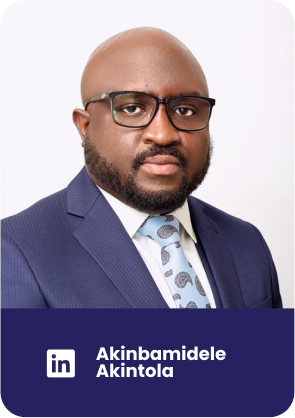
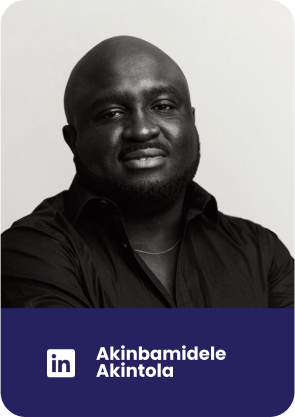
changed akintola imaged and added new team member and changed boards order

diff --git a/routes/web.php b/routes/web.php
@@ -114,8 +114,25 @@ Route::get('who-we-are', function () {
             'content' => "Strategic whiz who turns challenges into seamless collaboration. Expert at driving teamwork and boosting communication with style. A relationship builder who keeps teams sharp and adaptable. Master communicator and inventive problem-solver with a flair for strategic planning. Known for charming execs and partners while delivering stellar results.", 
             'link' => 'https://www.linkedin.com/in/roli-edoja-98607a263/'
         ],
+        
+        [
+            'name' => 'EseOghene Okagbare',
+            'position' => 'Head of Media Operations',
+            'list_image' => '/images/team_8.png', 
+            'image' => '/images/team_detail_8.png', 
+            'content' => "EseOghene brings diverse experience across education, banking, and technology sectors, driving innovative media strategies and brand awareness with his technical knowledge and creative vision. Holding a Bachelor's in Computer Science and multiple tech certifications, Elson has advanced rapidly, showcasing his versatility and leadership. He rose to Head Customer Service Officer in banking before becoming a Senior Software Engineer at Interswitch Nigeria Limited. There, he discovered his passion for media, directing a film and a documentary, and later founded a wedding media company and corporate media enterprise. He has produced commercials, documentaries, and films for diverse clients.", 
+            'link' => 'https://www.linkedin.com/in/roli-edoja-98607a263/'
+        ],
     ];
     $boards = [
+        [
+            'name' => 'Seyi Akinwale', 
+            'list_image' => '/images/ambassador_10.png', 
+            'image' => '/images/detail_10.png', 
+            'content' => "Seyi Akinwale, Senior VP at GE Vernova’s Financial Services, has 18+ years of experience in infrastructure project development in Sub Saharan Africa. Skilled in debt and equity markets, he secures financing for complex projects. Seyi has held roles in GE’s Industrial Finance and Treasury Capital Markets. Previously, he was a Director at PwC, growing the Deals practice, and a VP at FCMB Capital. Seyi holds degrees from Obafemi Awolowo University, Cranfield University, and the University of Chicago Booth School of Business. He is a fellow of the Association of Certified Chartered Accountants of UK & Ireland and the Institute of Chartered Accountants of Nigeria. Seyi serves on multiple boards, including as a non-executive Director of the Ibadan Electricity Distribution Company. Passionate about infrastructural development and education, he founded the Special Foundation to empower gifted African children through education and mentorship.", 
+            'link' => 'https://www.linkedin.com/in/seyi-akinwale/'
+        ],
+
         [
             'name' => 'Abimbola Ayinde', 
             'list_image' => '/images/ambassador_1.png', 
@@ -126,26 +143,6 @@ Route::get('who-we-are', function () {
                 <br><br>
                 Abimbola is dedicated to supporting the education and wellbeing of children with absent or underprivileged parents, volunteering and advocating for multiple NGOs.", 
             'link' => 'https://www.linkedin.com/in/abimbola-ayinde-0ab79018/'
-        ],
-
-        [
-            'name' => 'Akinbamidele Akintola', 
-            'list_image' => '/images/ambassador_2.png', 
-            'image' => '/images/detail_2.png', 
-            'content' => "Dele, a seasoned executive with 15+ years in Equity Capital Markets (ECM) and investment banking across Sub-Saharan Africa, has raised over USD10bn for African-focused corporates. Currently, as Chief Commercial Officer at Alerzo, an innovative Technology Distribution Startup, he tackles FMCG supply chain issues in Nigeria, empowering informal retailers, especially working mothers. 
-                Previously, as Senior VP at Stanbic IBTC Stockbrokers Limited, he fortified the firm's position as the top brokerage for over a decade, executing landmark ECM deals. Dele's tenure at Renaissance Capital also saw pivotal growth, where he managed Africa Equity Sales and served as an Equity Research Analyst.<br>
-                He's renowned for capital raises like the $200M MTN Nigeria Secondary Sale, $500M Seplat IPO, and $5B MTN Nigeria Listing by Introduction. Academically, he holds a bachelor’s degree from Babcock University, an MSc from Loughborough University, and recently completed an Executive MBA at MIT.", 
-            'link' => 'https://www.linkedin.com/mwlite/in/akinbamidele-akintola-90aa2546'
-        ],
-
-        [
-            'name' => 'Chukwuma Nwanze', 
-            'list_image' => '/images/ambassador_3.png', 
-            'image' => '/images/detail_3.png', 
-            'content' => "Chukwuma Nwanze is the Managing Director/Chief Executive Officer at Credit Direct Ltd, Nigeria's premier consumer lending finance company. Prior to joining Credit Direct, Chukwuma had worked in different sectors of the economy including Banking, Management Consulting, Oil and Gas, ICT and the Public Sector as a Chief Finance Officer in many prestigious companies.<br>
-                He is a Fellow of the Institute of Chartered Accountants of Nigeria (ICAN) with over 22 years of working experience. He holds an MBA from the prestigious Warwick Business School, University of Warwick, Coventry, United Kingdom. He is an alumnus of Oxford Business School, UK, Nanyang Business School, Singapore and the Stellenbosch Business School, Cape Town, South Africa and the Lagos Business School, Lagos, Nigeria.<br>
-                Chukwuma is a doctoral candidate at Edinburgh Business School and is a big advocate of equal learning opportunities for every child.", 
-            'link' => 'https://www.linkedin.com/in/chukwuma-nwanze-9b002a18/'
         ],
 
         [
@@ -161,6 +158,16 @@ Route::get('who-we-are', function () {
             'link' => 'https://www.linkedin.com/in/lola-akinwale-2002472/'
         ],
 
+        [
+            'name' => 'Akinbamidele Akintola', 
+            'list_image' => '/images/ambassador_2.png', 
+            'image' => '/images/detail_2.png', 
+            'content' => "Dele, a seasoned executive with 15+ years in Equity Capital Markets (ECM) and investment banking across Sub-Saharan Africa, has raised over USD10bn for African-focused corporates. Currently, as Chief Commercial Officer at Alerzo, an innovative Technology Distribution Startup, he tackles FMCG supply chain issues in Nigeria, empowering informal retailers, especially working mothers. 
+            Previously, as Senior VP at Stanbic IBTC Stockbrokers Limited, he fortified the firm's position as the top brokerage for over a decade, executing landmark ECM deals. Dele's tenure at Renaissance Capital also saw pivotal growth, where he managed Africa Equity Sales and served as an Equity Research Analyst.<br>
+            He's renowned for capital raises like the $200M MTN Nigeria Secondary Sale, $500M Seplat IPO, and $5B MTN Nigeria Listing by Introduction. Academically, he holds a bachelor’s degree from Babcock University, an MSc from Loughborough University, and recently completed an Executive MBA at MIT.", 
+            'link' => 'https://www.linkedin.com/mwlite/in/akinbamidele-akintola-90aa2546'
+        ],
+        
         [
             'name' => 'Funlola Adegoke', 
             'list_image' => '/images/ambassador_5.png', 
@@ -181,6 +188,16 @@ Route::get('who-we-are', function () {
                 Ifeoma holds a bachelor’s in mass communication from the University of Lagos, Prince2 certification in Project Management from the UK, and Executive Leadership Education from the University of Stellenbosch. She earned her Executive Coaching Certification from Henley Business School Denmark.<br>
                 An avid traveller, Ifeoma loves connecting people and ideas for impactful encounters. She supports professionals through mentoring, coaching, and equipping them with career development tools.", 
             'link' => 'https://www.linkedin.com/in/ifeoma-okpala/'
+        ],
+
+        [
+            'name' => 'Chukwuma Nwanze', 
+            'list_image' => '/images/ambassador_3.png', 
+            'image' => '/images/detail_3.png', 
+            'content' => "Chukwuma Nwanze is the Managing Director/Chief Executive Officer at Credit Direct Ltd, Nigeria's premier consumer lending finance company. Prior to joining Credit Direct, Chukwuma had worked in different sectors of the economy including Banking, Management Consulting, Oil and Gas, ICT and the Public Sector as a Chief Finance Officer in many prestigious companies.<br>
+                He is a Fellow of the Institute of Chartered Accountants of Nigeria (ICAN) with over 22 years of working experience. He holds an MBA from the prestigious Warwick Business School, University of Warwick, Coventry, United Kingdom. He is an alumnus of Oxford Business School, UK, Nanyang Business School, Singapore and the Stellenbosch Business School, Cape Town, South Africa and the Lagos Business School, Lagos, Nigeria.<br>
+                Chukwuma is a doctoral candidate at Edinburgh Business School and is a big advocate of equal learning opportunities for every child.", 
+            'link' => 'https://www.linkedin.com/in/chukwuma-nwanze-9b002a18/'
         ],
 
         [
@@ -211,15 +228,6 @@ Route::get('who-we-are', function () {
             'content' => 'Oluwole Coker', 
             'link' => 'https://www.linkedin.com/in/oluwole-coker-49499a121/'
         ],
-
-        [
-            'name' => 'Seyi Akinwale', 
-            'list_image' => '/images/ambassador_10.png', 
-            'image' => '/images/detail_10.png', 
-            'content' => "Seyi Akinwale, Senior VP at GE Vernova’s Financial Services, has 18+ years of experience in infrastructure project development in Sub Saharan Africa. Skilled in debt and equity markets, he secures financing for complex projects. Seyi has held roles in GE’s Industrial Finance and Treasury Capital Markets. Previously, he was a Director at PwC, growing the Deals practice, and a VP at FCMB Capital. Seyi holds degrees from Obafemi Awolowo University, Cranfield University, and the University of Chicago Booth School of Business. He is a fellow of the Association of Certified Chartered Accountants of UK & Ireland and the Institute of Chartered Accountants of Nigeria. Seyi serves on multiple boards, including as a non-executive Director of the Ibadan Electricity Distribution Company. Passionate about infrastructural development and education, he founded the Special Foundation to empower gifted African children through education and mentorship.", 
-            'link' => 'https://www.linkedin.com/in/seyi-akinwale/'
-        ],
-        // Add more ambassadors as needed
     ];
     return view('who-we-are', compact('teams'))->with('boards', $boards)->with('downloads', $downloads);
 });

diff --git a/resources/views/who-we-are.blade.php b/resources/views/who-we-are.blade.php
@@ -16,14 +16,14 @@
                         The Special Foundation is a social impact organisation that focuses on raising young African
                         leaders through education by providing platforms and opportunities to fulfil their dreams. We
                         are a community of young professionals with a vision to improve the quality of leadership in all
-                        spheres of governance in Africa by creating access for more children to get an education.
+                        spheres of governance in Africa by creating access for more children to get an education
                     </p>
                     <p class="border-[#25A8D6] pl-5 border-l-[14px]">
                         Founded by Seyi Akinwale in 2018 through his vision to improve the quality of leadership in all
                         spheres of governance in Africa and ensure the creation of a platform where more young people
-                        can maximize their potential by gaining access to education. The foundation has empowered over
-                        21,000 less privileged, gifted African Children through education, mentorship, and leadership
-                        opportunities.
+                        can maximize their potential by gaining access to education. The foundation now has over 400
+                        active partners and volunteers and has empowered over 21,000 less privileged, gifted African
+                        Children through education, mentorship, and leadership opportunities.
                     </p>
                 </div>
                 <div class="basis-full xl:basis-1/2 lg:pl-6">
